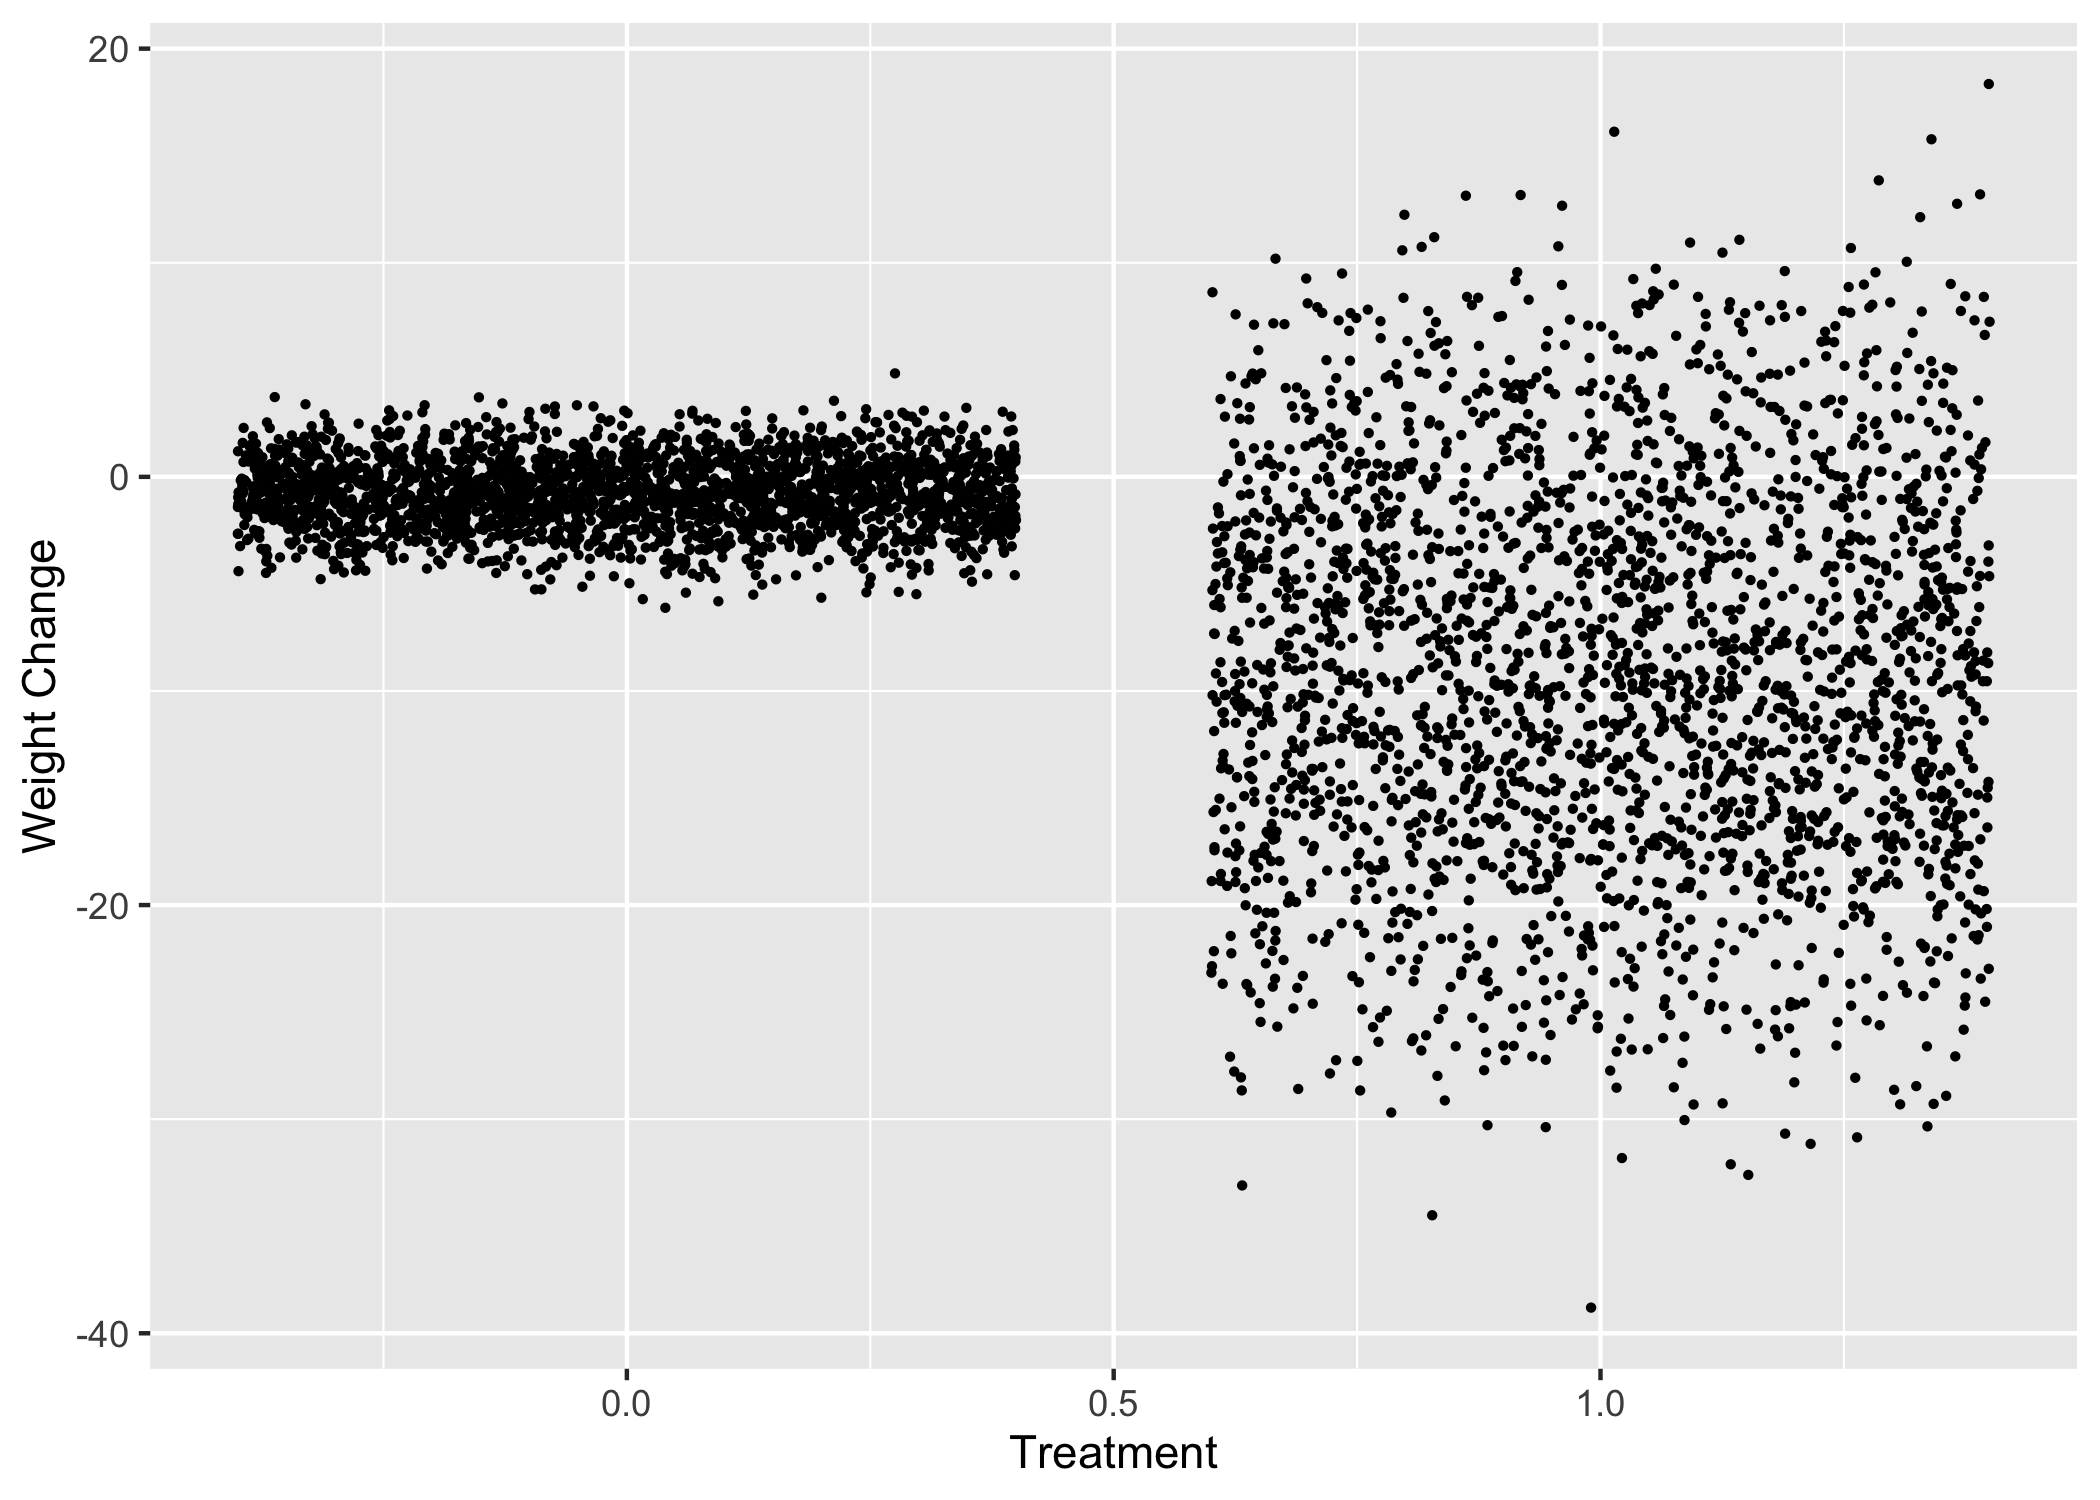
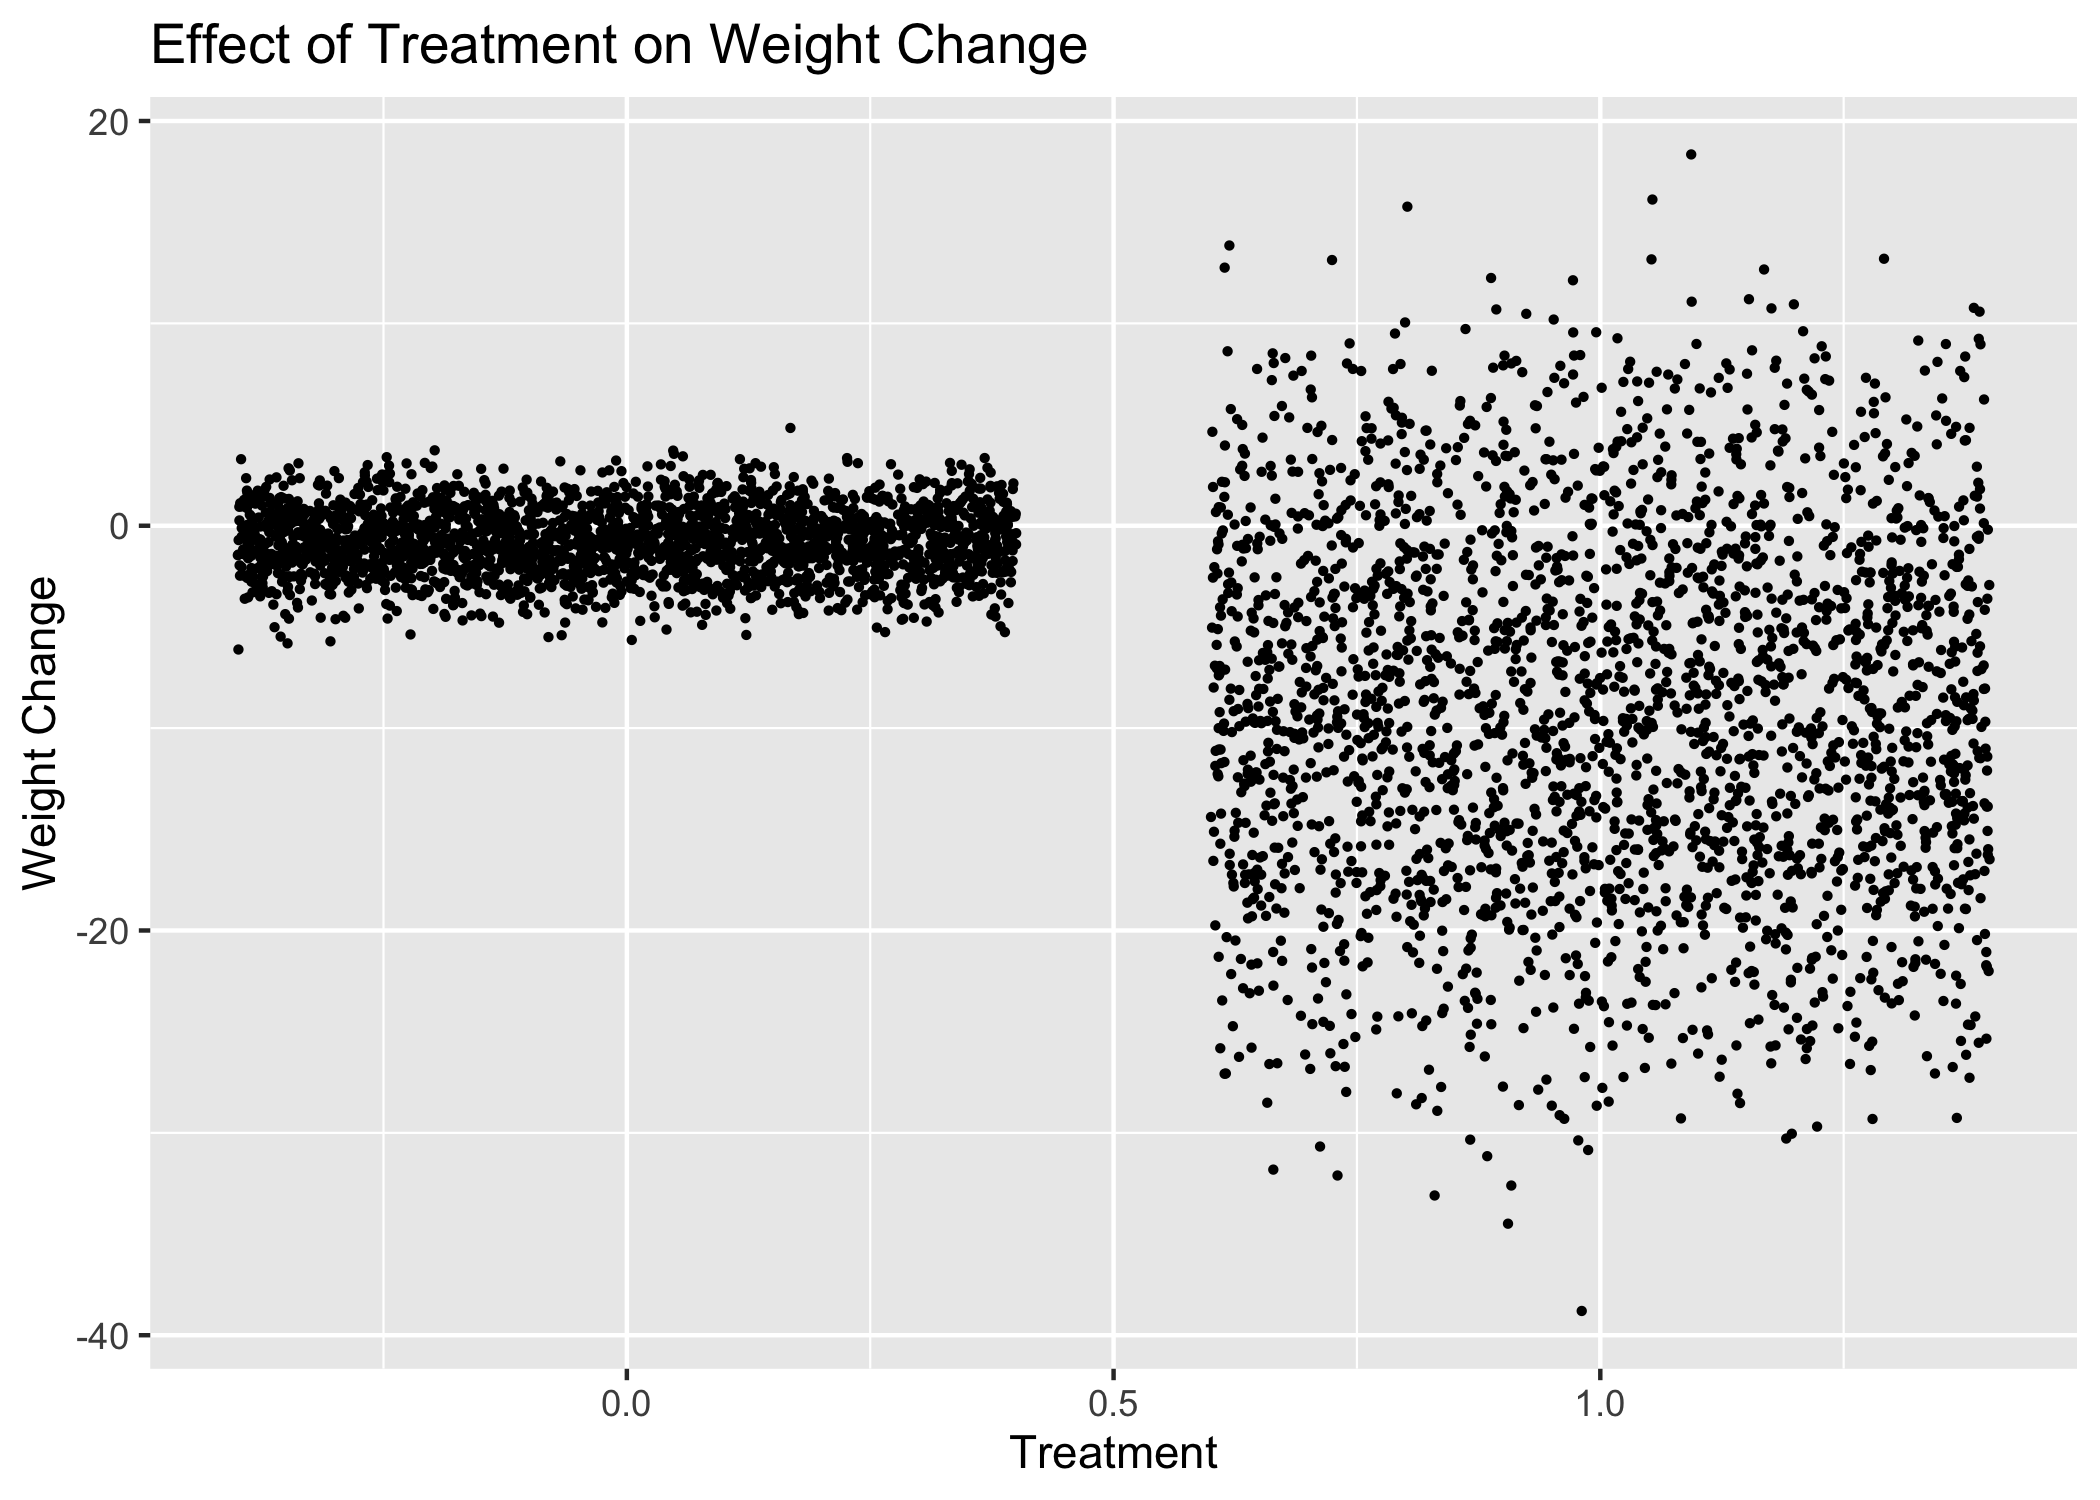
Tidied up a few figures and legends.

diff --git a/Medical_Outcome.md b/Medical_Outcome.md
@@ -362,7 +362,8 @@ We start off by simply plotting *weightGain* vs *treatment*
 
 ``` r
 ggplot(DF, aes(x=trt, y=weightGain)) +
-  geom_jitter(size=0.5) + xlab("Treatment") + ylab("Weight Change")
+  geom_jitter(size=0.5) + xlab("Treatment") + ylab("Weight Change") +
+  ggtitle("Effect of Treatment on Weight Change")
 ```
 
 ![](Medical_Outcome_files/figure-markdown_github/unnamed-chunk-13-1.png) We see 2 trends immediately. The control subjects had remarkably little change in their weights, but the treated subjects had (1) much greater variance in their weight change, and (2) a net loss in weight. It's also clear that in some cases, the treatment caused weight gain.
@@ -681,7 +682,7 @@ Here, we're seeing that the treatment improves SRH overall, and there's an addit
 ``` r
 ggplot(DF, aes(x=trt, y=SRHimprove), colour=sex) + 
   geom_jitter(aes(colour=sex), size=0.5) +
-  theme_bw() + ggtitle("Self Reported Health Improvement") +
+  theme_bw() + ggtitle("Self Reported Health Improvement vs Treatment and Sex") +
   ylab("SRH improvement") + xlab("Treatment") +
   scale_color_manual(name="Sex",
                       breaks = c("MALE", "FEMALE"),
@@ -722,7 +723,7 @@ We see that there's a significant age:treatment interaction term.
 ``` r
 ggplot(DF, aes(x=age, y=SRHimprove), colour=trt) +
   geom_jitter(aes(colour=as.factor(trt)), size=0.3) +
-  ggtitle("SRH Improvement of Subjects vs. Age") +
+  ggtitle("SRH Improvement of Subjects vs. Age and Treatment") +
   theme_bw() + ylab("SRH Improvement") +
   scale_color_manual(name="Treatment",
                       breaks = c("0","1"),
@@ -731,7 +732,11 @@ ggplot(DF, aes(x=age, y=SRHimprove), colour=trt) +
 ```
 
 ![](Medical_Outcome_files/figure-markdown_github/unnamed-chunk-27-1.png) Amongst the people whose SRH changes during the study,
-1. No one is under the age of 32 2. There is an enrichment of untreated people who get worse between ages 32-39. 3. There is an enrichment of treated people who get better between 45-50. 4. There is an enrichment of untreated people who get a little better between 50-55. 5. Overall, increasing age predicts SRH improvement for treated subjects.
+1. No one is under the age of 32.
+2. There is an enrichment of untreated people who get worse between ages 32-39.
+3. There is an enrichment of treated people who get better between 45-50.
+4. There is an enrichment of untreated people who get a little better between 50-55.
+5. Overall, increasing age predicts SRH improvement for treated subjects.
 
 Increasing age improves SRH improvement, but with a small magnitude. Being hispanic or white also explains part of the improvement with larger magnitude but less statistical significance. I'm going to now build separate SRH models for men and women.
 
